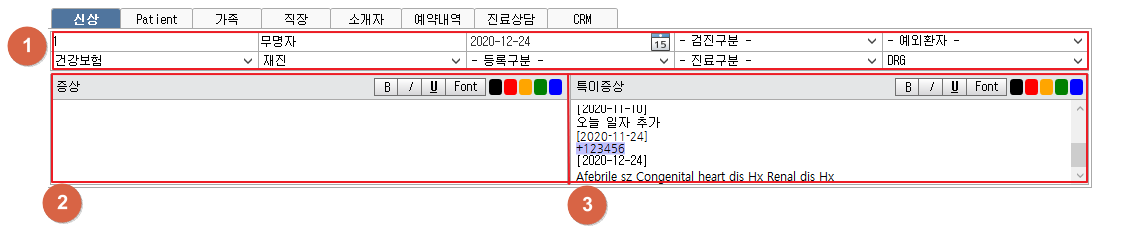
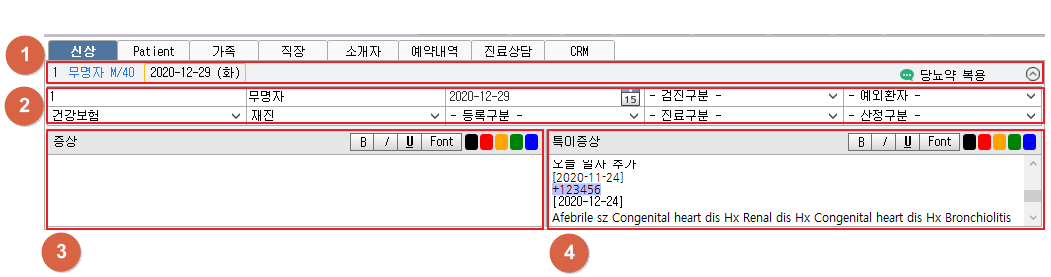
입원진료_page8,9,11 구현

diff --git a/_docs/main6/sub2/page9.md b/_docs/main6/sub2/page9.md
@@ -4,3 +4,24 @@ subCategory: 입원진료
 mainCategory: 프로그램 활용 - 진료
 pageOrder: 9
 ---
+<pre>
+ <t2><bold>1. 진료이미지</bold></t2>
+     ① 환자사진 및 서식이 표시됩니다.
+         우클릭시 텍스트를 기입할 수 있습니다.
+         서식에 그림을 그릴 수 있습니다.
+     ② [크게] 버튼을 클릭하여 진료이미지 크게보기 창이 팝업합니다.
+         [<img src="/images/{{page.url}}_1.png"  width="20" height="20">] 버튼을 클릭하여 서식을 지정, 서식을 추가할 수 있습니다.
+         [저장] 버튼을 클릭하여 편집한 진료이미지를 저장 할 수 있습니다.
+         [<img src="/images/{{page.url}}_2.png"  width="20" height="20">] 버튼을 클릭하여 그리기 색, 텍스트 색을 변경할 수 있습니다.
+         [◀] [▶] 버튼을 클릭하여 ③진료이미지가 변경됩니다.
+     ③ 저장 된 진료이미지가 표시됩니다.
+          우클릭, 더블클릭하여 진료이미지를 삭제 할 수 있습니다.
+</pre>
+
+[![](/images/{{page.url}}_3.png)](/images/{{page.url}}_3.png){: target="_blank"}
+
+[![](/images/{{page.url}}_4.png)](/images/{{page.url}}_4.png){: target="_blank"}
+<br/>[진료이미지 크게보기 창]
+
+[![](/images/{{page.url}}_5.png)](/images/{{page.url}}_5.png){: target="_blank"}
+[서식관리 화면]

diff --git a/_docs/main6/sub2/page11.md b/_docs/main6/sub2/page11.md
@@ -4,3 +4,28 @@ subCategory: 입원진료
 mainCategory: 프로그램 활용 - 진료
 pageOrder: 11
 ---
+<pre>
+ <t2><bold>1. 화면설정</bold></t2>
+     ① [화면 템플릿], [화면 디자인] 버튼을 클릭 시 화면 구성을 변경할 수 있습니다.
+</pre>
+[![](/images/{{page.url}}_1.png)](/images/{{page.url}}_1.png){: target="_blank"}
+
+<pre>
+ <t2><bold>2. 화면 템플릿</bold></t2>
+     ① [←], [→] 버튼을 클릭하여 이전/다음 템플릿으로 넘어갈 수 있습니다.
+         [템플릿 적용] 버튼을 클릭 시 화면을 저장합니다.
+</pre>
+[![](/images/{{page.url}}_2.png)](/images/{{page.url}}_2.png){: target="_blank"}
+
+<pre>
+ <t2><bold>3. 화면 디자인</bold></t2>
+     ① 스플리터를 움직여 컨텐츠의 너비와 높이를 조정합니다.
+     ② [x] 버튼을 클릭 시 컨텐츠가 삭제됩니다.
+     ③ 컨텐츠를 표시합니다.
+        컨텐츠를 선택하여 화면 영역에 올려둡니다.
+        위치시킬 영역을 선택합니다.
+     ④ [Clear]] 버튼 클릭 시 화면이 초기화 됩니다.
+     ③ [화면저장] 버튼을 클릭 시 화면을 저장합니다.
+     ④ [원래대로] 버튼 클릭 시 이전 화면으로 돌아갑니다.
+</pre>
+[![](/images/{{page.url}}_3.png)](/images/{{page.url}}_3.png){: target="_blank"}

diff --git a/_docs/main6/sub2/page8.md b/_docs/main6/sub2/page8.md
@@ -4,3 +4,22 @@ subCategory: 입원진료
 mainCategory: 프로그램 활용 - 진료
 pageOrder: 8
 ---
+<pre>
+ <t2><bold>1. 진료정보</bold></t2>
+     ① 진료의사, 진료일시 정보를 표시합니다.
+         진료일시를 클릭 시 진료일시 변경 창이 팝업됩니다.
+     ② 가루약 처방여부를 표시합니다.
+        [<img src="/images/{{page.url}}_1.png"  width="20" height="20">] 버튼을 클릭하여 가루약 처방/처방안함 변경할 수 있습니다.
+     ③ 차트 처방유형 및 차트개수를 표시합니다.
+         [+] 버튼을 클릭하여 처방을 추가할 수 있습니다.
+     ④ 진료의 보험구분, 초재진구분, 등록구분, 진료구분, 산정구분을 확인 및 변경할 수 있습니다.
+        진료구분에 따라 진찰료 산정이 달라집니다.
+</pre>
+
+[![](/images/{{page.url}}_2.png)](/images/{{page.url}}_2.png){: target="_blank"}
+
+[![](/images/{{page.url}}_3.png)](/images/{{page.url}}_3.png){: target="_blank"} <br/>
+[진료시간 변경 화면]
+
+[![](/images/{{page.url}}_4.png)](/images/{{page.url}}_4.png){: target="_blank"} <br/>
+[처방 탭 추가 화면]

diff --git a/_docs/main6/sub2/page5.md b/_docs/main6/sub2/page5.md
@@ -6,13 +6,16 @@ pageOrder: 5
 ---
 <pre>
  <t2><bold>1. 신상</bold></t2>
-     ① 진료를 볼 환자의 신상을 확인 및 수정할 수 있습니다.
-     ② 진료일자의 증상을 수정할 수 있습니다.
+     ① 환자의 인적정보, 진료일자,환자 특이증상을 표시합니다.
+        상단버튼 [화면설정]_[인적사항 간단히 보기] 버튼을 클릭하여 숨김처리할 수 있습니다.
+     ② 진료를 볼 환자의 신상을 확인 및 수정할 수 있습니다.
+     ③ 진료일자의 증상을 수정할 수 있습니다.
          증상 입력후 하단 사용자설정의 [저장] 버튼을 클릭합니다.
-     ③ 환자의 특이증상을 수정할 수 있습니다.
+     ④ 환자의 특이증상을 수정할 수 있습니다.
 </pre>
 
 [![](/images/{{page.url}}_1.png)](/images/{{page.url}}_1.png){: target="_blank"}
+
 <pre>
  <t2><bold>2. 고객상세정보</bold></t2>
      ① 환자의 상세정보를 확인할 수 있습니다.

diff --git a/_docs/main6/sub2/page4.md b/_docs/main6/sub2/page4.md
@@ -4,9 +4,6 @@ subCategory: 입원진료
 mainCategory: 프로그램 활용 - 진료
 pageOrder: 4
 ---
-
----
-
 <pre>
  <t2><bold>1. 전처방</bold></t2>
      ① 진료기록이 있는 달은 진한 굵은 글씨로 표시됩니다. 
